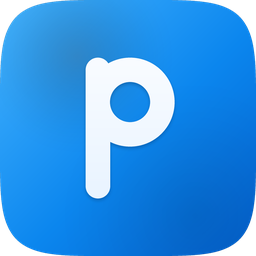
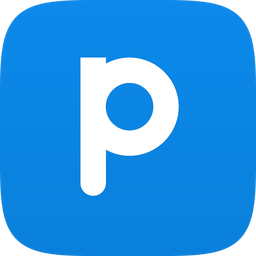
feat(ui): 重绘应用图标为 HyperOS 风格扁平品牌蓝与几何小写 p 字标
- 容器采用超椭圆 squircle，纯色 pixiv 品牌蓝替换被遮罩裁切的双色圆形背景
- 字标重绘为几何均匀笔画小写 p，圆形碗部与圆角端点比例均衡
- 自适应图标三层重构：整幅纯色背景、安全区纯字形前景、规范单色层
- 桌面 icon.ico 升级 16-256 多尺寸，icon.png 提升 256px

diff --git a/CHANGELOG.md b/CHANGELOG.md
@@ -18,9 +18,9 @@
 ### 优化
 
 - 重绘了应用图标：
-  - 采用 HyperOS 风格超椭圆（squircle）容器与 Pixiv 品牌蓝对角渐变，搭配玻璃质感高光，替换原先扁平双色圆形背景。
-  - 字标重绘为均匀笔画的圆角 P（保留小写 p 气质），修正原字标竖条过粗、弧线过细的失衡比例，全尺寸下识别性更好。
-  - 自适应图标三层重构：背景为整幅渐变、前景为纯字形安全区构图、新增规范的单色层（Android 13+ 主题图标不再误用含背景的前景图）。
+  - 采用 HyperOS 风格超椭圆（squircle）容器与 Pixiv 品牌蓝纯色底，替换原先被遮罩裁切的双色圆形背景。
+  - 字标重绘为几何均匀笔画的小写 p，圆形碗部与圆角端点比例均衡，全尺寸下识别性更好。
+  - 自适应图标三层重构：整幅纯色背景、安全区纯字形前景、规范单色层（Android 13+ 主题图标不再误用含背景的前景图）。
   - Android 全密度传统图标与桌面端图标同步更新，Windows icon.ico 升级为 16–256 多尺寸。
 - 优化了大屏设备上作品详情页的浏览体验：
   - 大图显示不再无限制占满屏幕：宽屏容器下详情页大图收进内容列并与底部信息卡片同列对齐，竖屏图片按视口高度上限（80%）收缩宽度，观看竖图时无需跨越多屏滚动；手机窄屏保持原有全出血展示不变。
